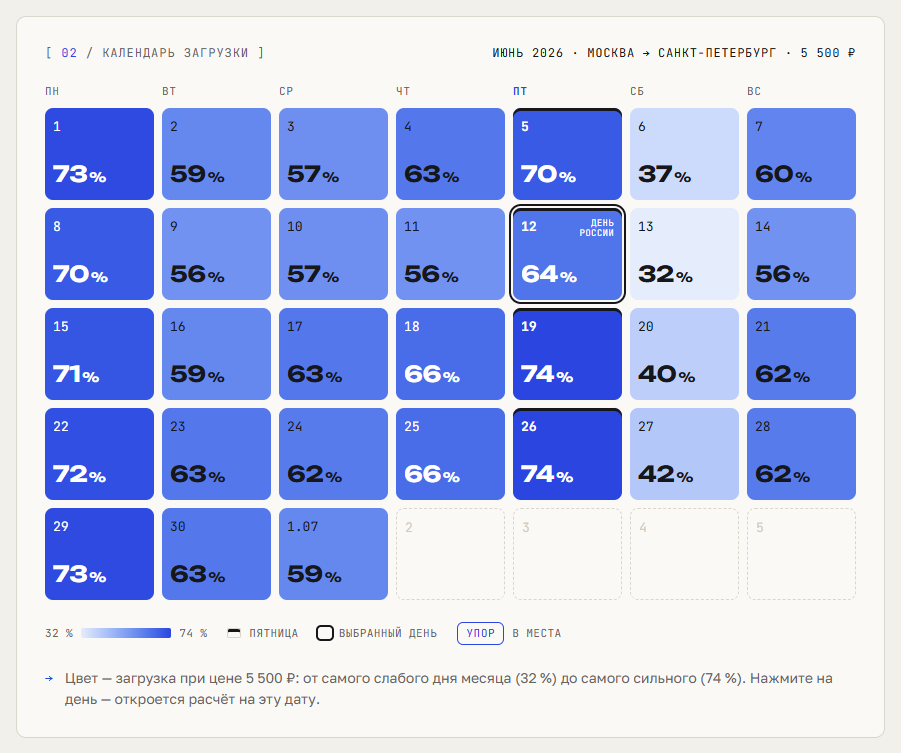
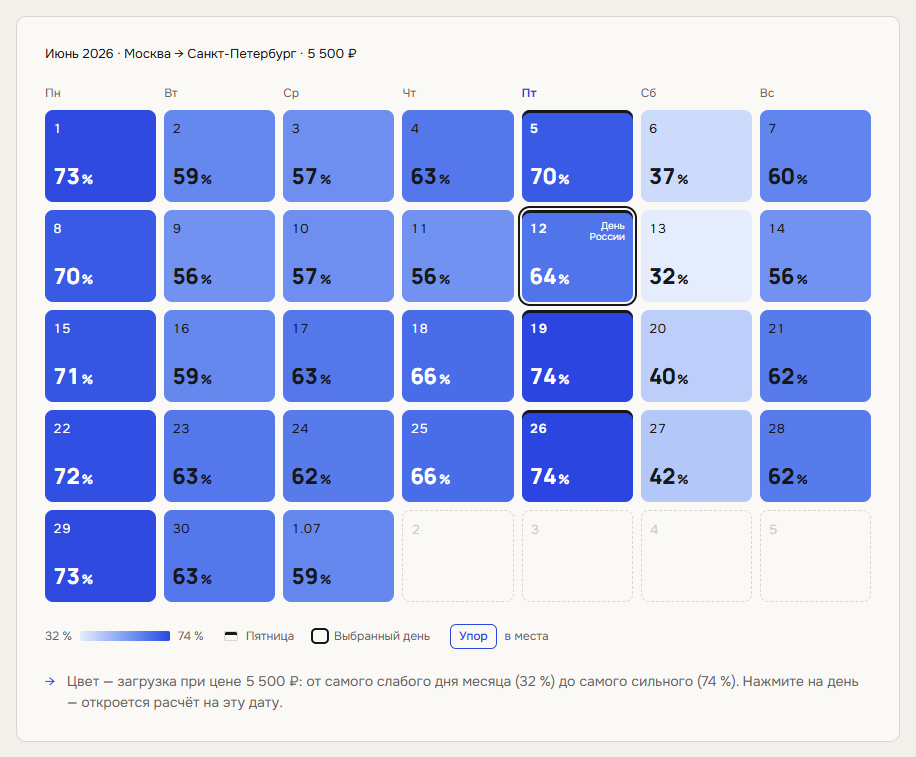
README и картинки docs: шрифты варианта А, подписи без скобок, 391 тест
Зачем: README описывал прежний вид — шрифты Golos Text и JetBrains Mono,
метки в квадратных скобках, нумерацию панелей, «370 тестов», — а на
картинках docs/ был старый сайт.

Что поменялось:
- «Дизайн»: шрифты по выбору автора (вариант А) — Unbounded в главном
  заголовке, Manrope в подзаголовках, числах и кнопках, Onest в тексте;
  в отличиях от макета — нет подписей в скобках капсом и номеров 01–04.
- «Что решал автор»: убраны «метки в квадратных скобках моноширинным
  шрифтом» и «нумерованные блоки», добавлен выбор шрифтов.
- Тесты: 391 вместо 370; в таблице вместо «нумерации панелей» — шрифты
  и подписи без скобок и капса; строка смоук-тестов дополнена, их 13,
  без интернета пропускаются ещё тесты PNG талона и шрифтов.
- Календарь: метка «Упор» вместо «УПОР».
- docs/vitrina.png, docs/raschet.png, docs/kalendar.png сняты заново
  с локального сервера в Chrome тем же кадром, что прежние.

Как проверено: pytest — 391 passed на SQLite и 391 passed на Postgres
(временный контейнер postgres:16-alpine, после прогона удалён);
картинки просмотрены.

diff --git a/README.md b/README.md
@@ -102,7 +102,7 @@
 
 ### Календарь
 
-Календарь — простой прогноз на каждый день маршрута при текущей цене. Цвет клетки — загрузка: шкала идёт от самого слабого дня месяца до самого сильного (на рейсе в Петербург при 5 500 ₽ — от 32 до 74%). Пятницы отмечены чертой сверху, упор в места — меткой «УПОР».
+Календарь — простой прогноз на каждый день маршрута при текущей цене. Цвет клетки — загрузка: шкала идёт от самого слабого дня месяца до самого сильного (на рейсе в Петербург при 5 500 ₽ — от 32 до 74%). Пятницы отмечены чертой сверху, упор в места — меткой «Упор».
 
 ![Календарь: 12 июня бледнее соседних пятниц](docs/kalendar.png)
 
@@ -218,7 +218,7 @@ py -3.11 -m venv .venv
 .venv\Scripts\python -m pytest
 ```
 
-370 тестов, все проходят на SQLite и на Postgres. По умолчанию тесты работают с временными файлами SQLite. Чтобы прогнать их на Postgres, нужна пустая тестовая база (тесты очищают в ней таблицы), например в Docker:
+391 тест, все проходят на SQLite и на Postgres. По умолчанию тесты работают с временными файлами SQLite. Чтобы прогнать их на Postgres, нужна пустая тестовая база (тесты очищают в ней таблицы), например в Docker:
 
 ```powershell
 docker run -d --name aviaprognoz-pg-test -e POSTGRES_USER=aviaprognoz -e POSTGRES_PASSWORD=local-test-only -e POSTGRES_DB=aviaprognoz_test -p 127.0.0.1:55432:5432 postgres:16
@@ -226,7 +226,7 @@ $env:TEST_DATABASE_URL = "postgresql://aviaprognoz:local-test-only@127.0.0.1:554
 .venv\Scripts\python -m pytest
 ```
 
-Смоук-тесты страницы (`test_browser_smoke.py`) запускают установленный Google Chrome через Playwright, браузер отдельно не скачивается. Без пакета `playwright` или без Chrome эти 3 теста пропускаются, тест талона — ещё и без интернета: html2canvas грузится с cdnjs.
+Смоук-тесты страницы (`test_browser_smoke.py`) запускают установленный Google Chrome через Playwright, браузер отдельно не скачивается. Без пакета `playwright` или без Chrome эти 13 тестов пропускаются. Без интернета пропускаются ещё тест PNG талона (html2canvas грузится с cdnjs) и тесты шрифтов (они грузятся с Google Fonts).
 
 | Файл | Что проверяет |
 |---|---|
@@ -239,10 +239,10 @@ $env:TEST_DATABASE_URL = "postgresql://aviaprognoz:local-test-only@127.0.0.1:554
 | `test_db.py` | доступ к базе на SQLite и Postgres: плейсхолдеры и типы, `RETURNING id`, повтор логина, откат транзакции, данные после переоткрытия базы |
 | `test_auth.py`, `test_history.py`, `test_ratelimit.py` | пароли, вход по email, повтор пароля, сессии, гость, демо-аккаунт из переменной, история и CSV для Excel, окно лимита |
 | `test_api.py`, `test_api_features.py` | HTTP целиком: вход, расчёт, лучшая цена 5 605 ₽, вероятности, календарь против отдельных расчётов, история, источники, `/api/story` против текста витрины, `/docs` |
-| `test_pages.py` | `/`, `/login`, `/app` и переходы между ними; числа и тексты витрины; нет ссылок на `#`; число тестов на витрине совпадает с pytest; нумерация панелей; в HTML нет встроенных стилей, скриптов и демо-режимов |
+| `test_pages.py` | `/`, `/login`, `/app` и переходы между ними; числа и тексты витрины; нет ссылок на `#`; число тестов на витрине совпадает с pytest; шрифты Unbounded, Manrope и Onest; нет подписей в квадратных скобках, слов капсом и разрядки, у вкладок нет номеров; в HTML нет встроенных стилей, скриптов и демо-режимов |
 | `test_solution_files.py` | ссылки «Файлы решения» из переменных; строка без ссылки не кликается; адреса вроде `javascript:` не проходят |
 | `test_security.py` | CSRF без токена, с чужим токеном и с чужого сайта; заголовки; 6-я попытка входа после 5 неудачных — 429; подменённый `X-Forwarded-For` не обходит лимит; аккаунт закрывается после 10 неудачных входов с разных адресов; лимит новых аккаунтов |
-| `test_browser_smoke.py` | в Chrome: расчёт 12 июня, отрицательная цена, PNG талона со штрихкодом |
+| `test_browser_smoke.py` | в Chrome: расчёт 12 июня, отрицательная цена, PNG талона со штрихкодом; загружены ровно три шрифта; цифры талона без `tabular-nums`, корешок «MOW → LED» в одну строку; подпись «Ваша · цена» не задевает кривую прибыли; шапка гостя на телефоне в одну строку; «наша ML-модель» на витрине |
 
 ## Структура проекта
 
@@ -282,12 +282,13 @@ Dockerfile, render.yaml, docker-compose.yml, passenger_wsgi.py, requirements*.tx
 
 ## Дизайн
 
-Внешний вид сделан в Claude Design (палитра «Посадочный талон», шрифты Unbounded, Golos Text и JetBrains Mono) и перенесён сюда без изменения стилей: `static/style.css` — это стили макета, а в конце файла отдельным блоком идут дополнения. Рисование графиков, салона и календаря перенесено из макета в модули `static/js/*`, но данные приходят с сервера. Демо-режимы макета (`?demo=…`) и выдуманные числа убраны.
+Внешний вид сделан в Claude Design (палитра «Посадочный талон») и перенесён в `static/style.css`: сначала стили макета, в конце файла отдельным блоком дополнения. Шрифты потом заменены по выбору автора (вариант А): Unbounded — только главный заголовок страницы, Manrope — подзаголовки, крупные числа и кнопки, Onest — текст, подписи, поля, таблицы и легенды. Ровные цифры в таблицах, на осях графиков и в календаре — `font-variant-numeric: tabular-nums`. Рисование графиков, салона и календаря перенесено из макета в модули `static/js/*`, но данные приходят с сервера. Демо-режимы макета (`?demo=…`) и выдуманные числа убраны.
 
 Чем сайт отличается от макета и почему:
 
 - В форме есть выбор прогноза (наша модель или организаторы), на вкладке «Расчёт» — формула с числами и сравнение двух прогнозов, в истории — повтор расчёта и выгрузка CSV, на странице входа — гостевой вход. В макете этого нет, а в задании есть.
 - Поле входа — «Логин или email», а не «Email»: демо-аккаунт `jury` не email.
+- Нет подписей в квадратных скобках моноширинным капсом («[ 02 / ПРОГНОЗ ]») и номеров 01–04 у вкладок и блоков: подписи — обычный текст с заглавной буквы, шаги нумеруются «1», «2»… Моноширинного шрифта на сайте нет.
 - PDF талона скачивается файлом (html2canvas и свой сборщик PDF), а не через окно печати, как в макете. Штрихкод талона собран из отдельных полос: полосатый фон макета html2canvas не рисует, и в PNG штрихкод пропадал.
 - Шкала календаря — от самого слабого до самого сильного дня месяца, а не фиксированные 65–100%: на рейсе в Петербург вся загрузка ниже 75%, и при шкале макета календарь был бы почти одноцветным.
 - Ось графика спроса подбирается мельче, чем в макете: при спросе около 1 100 ось шла до 2 000 и половина графика пустовала.
@@ -344,13 +345,14 @@ Python-сайты на виртуальном хостинге обычно за
 Что решал автор, Егор Титаренко:
 
 - вариант C из условия: страница с формой и backend;
-- палитру 1b «Посадочный талон» из вариантов Claude Design и приёмы из своего прошлого проекта: метки в квадратных скобках моноширинным шрифтом, нумерованные блоки, одно выделенное слово в заголовке;
+- палитру 1b «Посадочный талон» из вариантов Claude Design и приём из своего прошлого проекта: одно выделенное слово в заголовке;
+- шрифты, вариант А: Unbounded в главном заголовке, Manrope в подзаголовках, числах и кнопках, Onest в тексте; подписи без квадратных скобок и капса;
 - четыре функции сверх условия: ползунок цены с лучшей ценой, схему салона, календарь июня и посадочный талон;
 - заголовок витрины «Цена из прогноза, а не из правила»;
 - хостинг: сначала Render, потом TimeWeb;
 - открытый репозиторий только с кодом сайта.
 
-Как проверялось: автотесты (370, на SQLite и на Postgres); независимые проверки агентами-ревьюерами, у которых не было контекста разработки; ручная сверка чисел витрины и README с файлами прогноза.
+Как проверялось: автотесты (391, на SQLite и на Postgres); независимые проверки агентами-ревьюерами, у которых не было контекста разработки; ручная сверка чисел витрины и README с файлами прогноза.
 
 Что нашли проверки и что исправлено:
 
